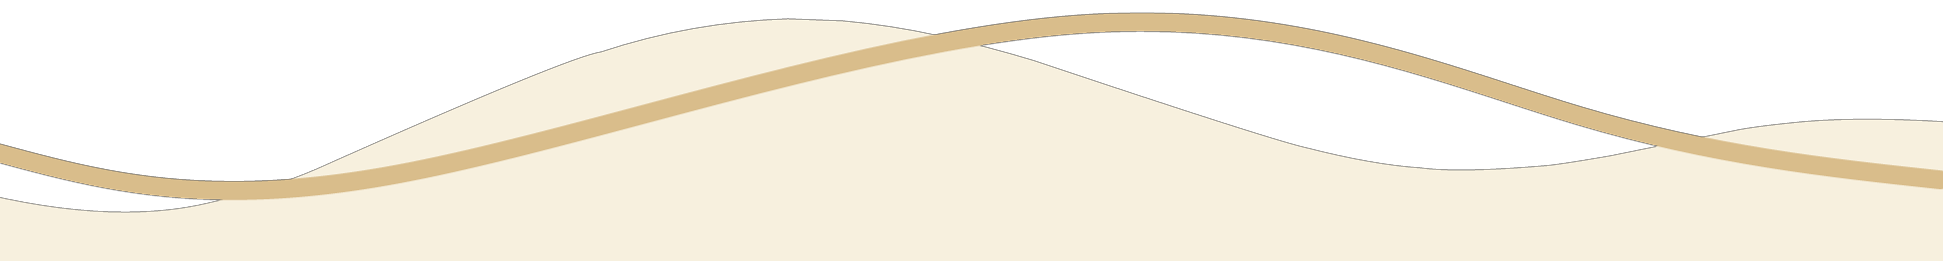
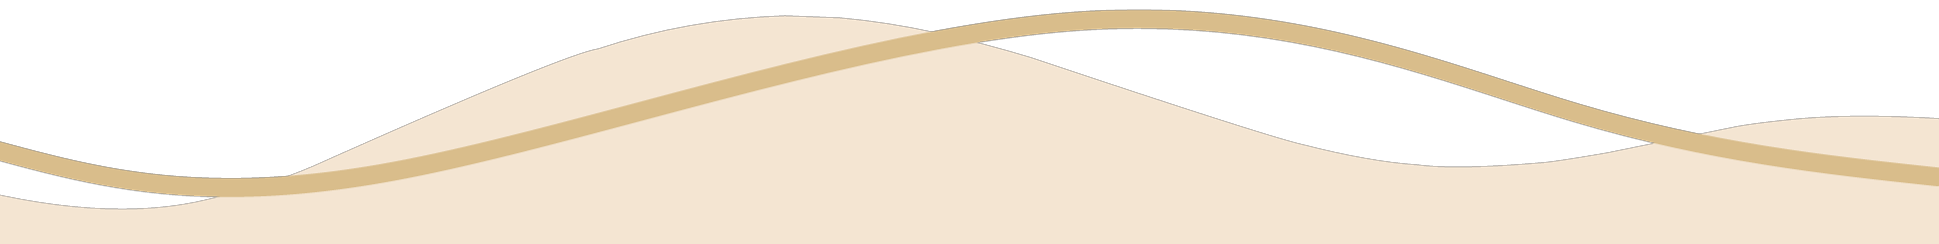
cambios diseño

diff --git a/styles.css b/styles.css
@@ -2,7 +2,7 @@
     --light-color1: #F7F0DE;
     --color1: #D9BD8B;
     --color1a: #53403A;
-    --color2: rgb(162, 171, 108);
+    --color2: #F4E5D2;
     --color3: rgb(94,85,94);
     --dark-color: #371F76;
     --black: #1c1c1c;
@@ -582,6 +582,44 @@ audio::-webkit-media-controls-play-button,
     align-content: center;
 }
 
+/* AGRADECIMIENTOS */
+.agradecimiento {
+    max-width: 1200px;
+    display: flex;
+    flex-direction: column;
+    justify-content: center;
+    align-items: center;
+    overflow: hidden;
+    background-color: var(--color2);
+    padding-bottom: 40px;
+    margin: 0 auto;
+}
+.agradecimiento img {
+    width: 20%;
+    text-align: center;
+    margin: 0 auto;
+}
+
+/* FOOTER */
+.elaboracion {
+    max-width: 1200px;
+    display: flex;
+    flex-direction: column;
+    justify-content: center;
+    align-items: center;
+    overflow: hidden;
+    padding: 30px 10px;
+    margin: 0 auto;
+}
+.elaboracion a {
+    font-weight: normal;
+    text-decoration: none;
+    text-align: center;
+    margin-top: 10px;
+}
+.elaboracion img {
+    width: 70px;
+}
 
 
 
@@ -811,7 +849,9 @@ audio::-webkit-media-controls-play-button,
         font-size: 26px;
     }
     .asistenciaContenedores {
+        flex-direction: column;
         justify-content: space-between;
+        flex-wrap: wrap;
     }
     .asistenciaContenedores .boton1 {
         width: 100px;
@@ -820,9 +860,20 @@ audio::-webkit-media-controls-play-button,
     .asistenciaContenedores a {
         margin: 0 auto;
     }
+    .derCont__asistencia {
+        margin-top: 15px;
+    }
 
     /* RELLENO3 */
     .relleno3 {
         background-position: 55%;
+    }
+
+    /* AGRADECIMIENTO */
+    .agradecimiento h5 {
+        font-size: 25px;
+    }
+    .agradecimiento img {
+        width: 40%;
     }
 }

diff --git a/animaciones.css b/animaciones.css
@@ -2,7 +2,7 @@
     --light-color1: #F7F0DE;
     --color1: #D9BD8B;
     --color1a: #53403A;
-    --color2: rgb(162, 171, 108);
+    --color2: #F4E5D2;
     --color3: rgb(94,85,94);
     --dark-color: #371F76;
     --black: #1c1c1c;
